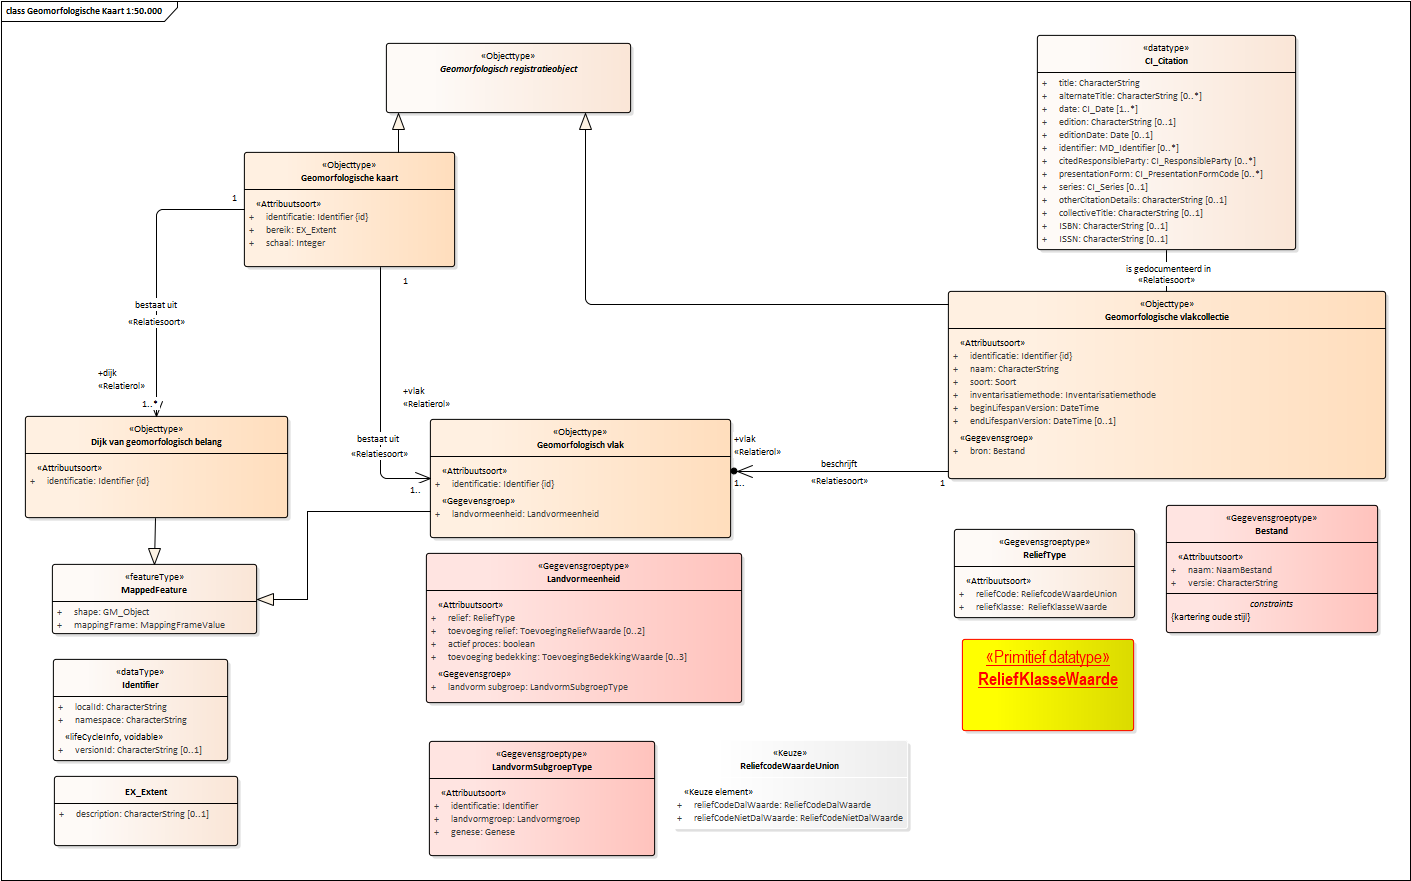
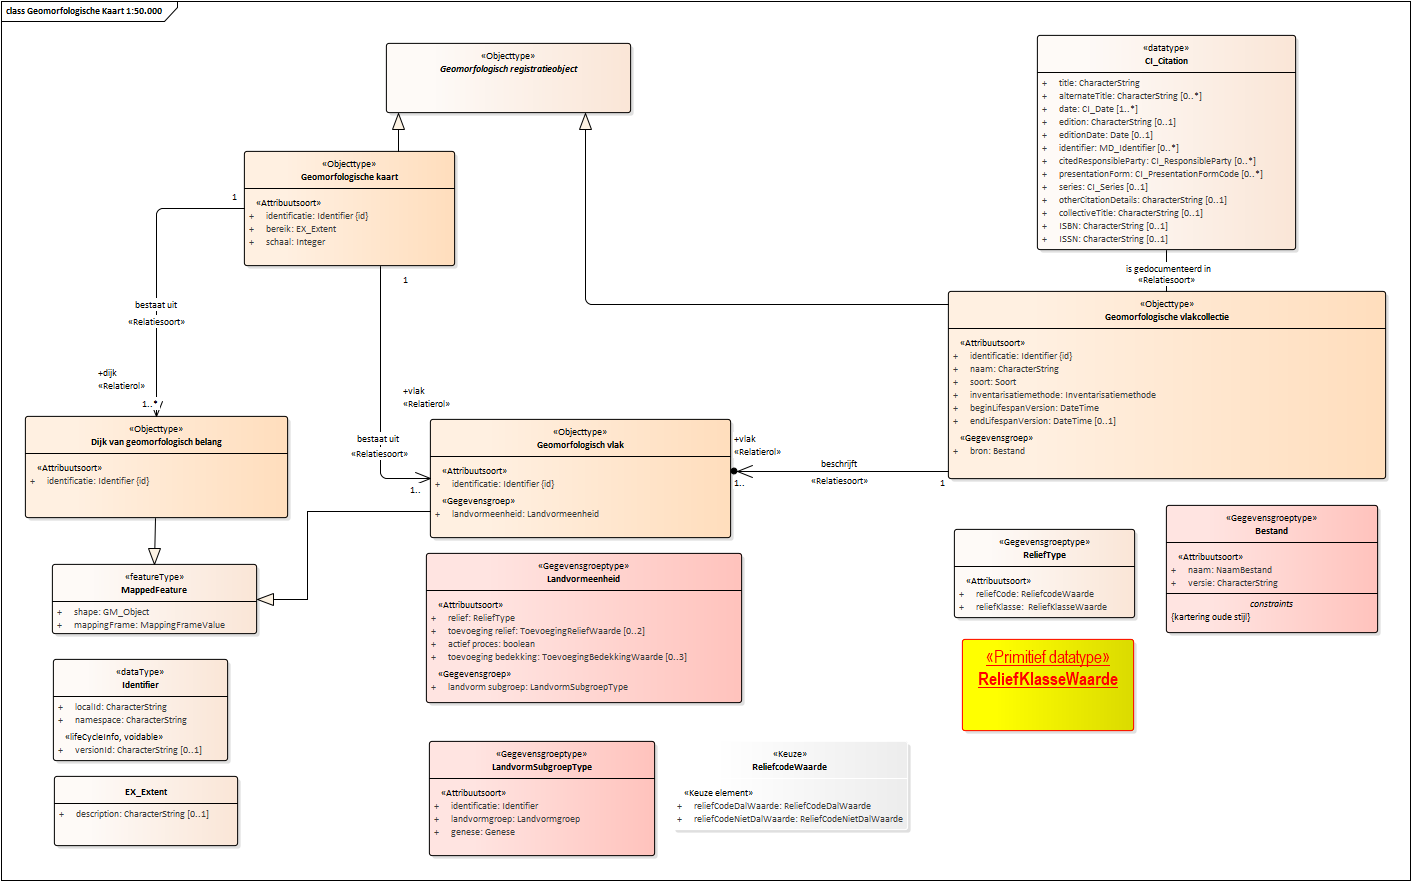
Conceptualmodel-GeomorfologischeKaartGMM-1.0-1-20180806-20180806-131932

Changed region(s): [[0.1559, 0.1532, 0.3118, 0.3065], [0.4678, 0.8581, 0.6549, 0.9501]]

diff --git a/data/GMM-cat.html b/data/GMM-cat.html
@@ -1,20 +1,20 @@
 <h2>Catalogus</h2>
 <p class="note" title="Over deze catalogus">
    Deze catalogus is automatisch samengesteld op basis van het UML model 
-   "Geomorfologische Kaart (GMM)" door 1.46.3 op August 6, 2018 at 09:58:04.
+   "Geomorfologische Kaart (GMM)" door 1.46.3 op August 6, 2018 at 11:19:31.
    <br>
    Wanneer je technische fouten of onvolkomenheden aantreft, geef dit dan door aan <i>arjan@linkedmatter.com</i> en geef de code 
-   <i>"Conceptualmodel-GeomorfologischeKaartGMM-1.0-1-20180806-20180806-115805"</i> door. 
+   <i>"Conceptualmodel-GeomorfologischeKaartGMM-1.0-1-20180806-20180806-131932"</i> door. 
    
 </p>
 <div class="imageinfo "><img src="data/Images/EAID_160626A1_CCDD_4032_B4D5_D30FF8FE4847.png" usemap="#imagemap-EAID_160626A1_CCDD_4032_B4D5_D30FF8FE4847"><map name="imagemap-EAID_160626A1_CCDD_4032_B4D5_D30FF8FE4847">
       <area shape="rect" coords="962,731,1134,639" alt="" href="#graph_EAID_E609F8B8_95AB_42bb_9DC1_791CDE4F3E44">
-      <area shape="rect" coords="672,829,908,740" alt="" href="#graph_EAID_BFEEA89D_0D4C_4c95_BC1D_762A18EB6F9B">
+      <area shape="rect" coords="672,830,908,741" alt="" href="#graph_EAID_BFEEA89D_0D4C_4c95_BC1D_762A18EB6F9B">
       <area shape="rect" coords="386,113,631,43" alt="" href="#graph_EAID_E3238A7E_FE1C_43a4_BF66_332ECDEF7681">
       <area shape="rect" coords="25,518,288,416" alt="" href="#graph_EAID_843FBABD_EBF0_4f1a_B37D_3D27CF51E1E4">
       <area shape="rect" coords="948,479,1386,291" alt="" href="#graph_EAID_1A180318_ED48_404f_BF37_B130C4BF1BD8">
       <area shape="rect" coords="430,538,731,419" alt="" href="#graph_EAID_79B1980D_BA7A_45db_8EF1_F9DCFF6B5389">
-      <area shape="rect" coords="244,267,455,152" alt="" href="#graph_EAID_6153A93B_5EF8_4e22_8EEC_7CF612ACE3D6"></map><p><b>Geomorfologische Kaart 1:50.000</b> — Ontwerp conceptueel model voor de Geomorfologische kaart, ten behoeve van de Basisregistratie
+      <area shape="rect" coords="244,266,455,151" alt="" href="#graph_EAID_6153A93B_5EF8_4e22_8EEC_7CF612ACE3D6"></map><p><b>Geomorfologische Kaart 1:50.000</b> — Ontwerp conceptueel model voor de Geomorfologische kaart, ten behoeve van de Basisregistratie
       Ondergrond (BRO).
    </p>
 </div>
@@ -24,7 +24,7 @@
       <area shape="rect" coords="26,541,262,426" alt="" href="#graph_EAID_2B60D3DD_9A53_48d9_9598_759BDEFE7BB2">
       <area shape="rect" coords="322,333,645,244" alt="" href="#graph_EAID_A30462D2_BDF4_4d87_AA1D_39859ADB2E90">
       <area shape="rect" coords="322,424,645,362" alt="" href="#graph_EAID_AC9144D6_B00D_4e0a_A506_61C3ECCB8DE3">
-      <area shape="rect" coords="26,202,249,113" alt="" href="#graph_EAID_BFADB646_F358_4f7e_A54C_E985A8724C21">
+      <area shape="rect" coords="26,202,243,113" alt="" href="#graph_EAID_BFADB646_F358_4f7e_A54C_E985A8724C21">
       <area shape="rect" coords="26,410,243,321" alt="" href="#graph_EAID_4BE35D48_AB17_4be7_A6A3_ABE09E5258D5">
       <area shape="rect" coords="26,304,243,215" alt="" href="#graph_EAID_3C0C8EB6_5C3D_4f87_B36C_DBB03EADAEEF">
       <area shape="rect" coords="26,82,645,35" alt="" href="#graph_EAID_A3898E34_ECC1_4419_8C60_C60D330F14EE"></map><p><b>Referentielijsten Geomorfologische Kaart (GMM)</b></p>
@@ -962,6 +962,10 @@
                <th>Naam</th>
                <td>ToevoegingBedekkingWaarde</td>
             </tr>
+            <tr>
+               <th>Herkomst</th>
+               <td>BRO</td>
+            </tr>
          </tbody>
       </table>
       
@@ -976,6 +980,10 @@
             <tr>
                <th>Naam</th>
                <td>ToevoegingReliefWaarde</td>
+            </tr>
+            <tr>
+               <th>Herkomst</th>
+               <td>BRO</td>
             </tr>
          </tbody>
       </table>
@@ -1036,6 +1044,10 @@
                <th>Naam</th>
                <td>Genese</td>
             </tr>
+            <tr>
+               <th>Herkomst</th>
+               <td>BRO</td>
+            </tr>
          </tbody>
       </table>
       
@@ -1051,6 +1063,10 @@
                <th>Naam</th>
                <td>Landvormgroep</td>
             </tr>
+            <tr>
+               <th>Herkomst</th>
+               <td>BRO</td>
+            </tr>
          </tbody>
       </table>
       
@@ -1059,8 +1075,8 @@
 </section>
 <section id="">
    <h3>Unions </h3>
-   <a class="anchor" name="graph_EAID_BFEEA89D_0D4C_4c95_BC1D_762A18EB6F9B"></a><a class="anchor" name="global_class_Model_ReliefcodeWaardeUnion"></a><section id="global_class_Model_ReliefcodeWaardeUnion">
-      <h4>Union ReliefcodeWaardeUnion</h4>
+   <a class="anchor" name="graph_EAID_BFEEA89D_0D4C_4c95_BC1D_762A18EB6F9B"></a><a class="anchor" name="global_class_Model_ReliefcodeWaarde"></a><section id="global_class_Model_ReliefcodeWaarde">
+      <h4>Union ReliefcodeWaarde</h4>
       
       <table>
          <colgroup width="30%"></colgroup>
@@ -1068,7 +1084,7 @@
          <tbody>
             <tr>
                <th>Naam</th>
-               <td>ReliefcodeWaardeUnion</td>
+               <td>ReliefcodeWaarde</td>
             </tr>
             <tr>
                <th>Herkomst</th>
@@ -1100,7 +1116,7 @@
                </tr>
                <tr>
                   <td>
-                     <a class="link" href="#detail_attribute_Model_ReliefcodeWaardeUnion_reliefCodeDalWaarde">reliefCodeDalWaarde</a>
+                     <a class="link" href="#detail_attribute_Model_ReliefcodeWaarde_reliefCodeDalWaarde">reliefCodeDalWaarde</a>
                      
                   </td>
                   <td></td>
@@ -1112,7 +1128,7 @@
                </tr>
                <tr>
                   <td>
-                     <a class="link" href="#detail_attribute_Model_ReliefcodeWaardeUnion_reliefCodeNietDalWaarde">reliefCodeNietDalWaarde</a>
+                     <a class="link" href="#detail_attribute_Model_ReliefcodeWaarde_reliefCodeNietDalWaarde">reliefCodeNietDalWaarde</a>
                      
                   </td>
                   <td></td>
@@ -1405,7 +1421,7 @@
                      </tr>
                      <tr>
                         <th>Formaat</th>
-                        <td>ReliefcodeWaardeUnion</td>
+                        <td>ReliefcodeWaarde</td>
                      </tr>
                   </tbody>
                </table>
@@ -1464,10 +1480,18 @@
                      <td>toevoeging relief</td>
                   </tr>
                   <tr>
+                     <th>Herkomst</th>
+                     <td>BRO</td>
+                  </tr>
+                  <tr>
                      <th>Definitie</th>
                      <td>Nadere typering van het reli?f en/of typering van de (relatieve) hoogteligging van
                         de landvormeenheid.
                      </td>
+                  </tr>
+                  <tr>
+                     <th>Herkomst definitie</th>
+                     <td>BRO</td>
                   </tr>
                   <tr>
                      <th>Toelichting</th>
@@ -1509,10 +1533,18 @@
                      <td>actief proces</td>
                   </tr>
                   <tr>
+                     <th>Herkomst</th>
+                     <td>BRO</td>
+                  </tr>
+                  <tr>
                      <th>Definitie</th>
                      <td>Onderverdeling van landvormeenheden naar het wel of niet onderhevig zijn aan een actief
                         vormingsproces.
                      </td>
+                  </tr>
+                  <tr>
+                     <th>Herkomst definitie</th>
+                     <td>BRO</td>
                   </tr>
                   <tr>
                      <th>Toelichting</th>
@@ -1570,8 +1602,16 @@
                         <td>identificatie</td>
                      </tr>
                      <tr>
+                        <th>Herkomst</th>
+                        <td>BRO</td>
+                     </tr>
+                     <tr>
                         <th>Definitie</th>
                         <td>De unieke aanduiding van een landvormsubgroep.</td>
+                     </tr>
+                     <tr>
+                        <th>Herkomst definitie</th>
+                        <td>BRO</td>
                      </tr>
                      <tr>
                         <th>Toelichting</th>
@@ -1613,10 +1653,18 @@
                         <td>landvormgroep</td>
                      </tr>
                      <tr>
+                        <th>Herkomst</th>
+                        <td>BRO</td>
+                     </tr>
+                     <tr>
                         <th>Definitie</th>
                         <td>Een groep van landvormen die in hun uiterlijke gedaante bepaalde geomorfologische
                            kenmerken gemeenschappelijk hebben.
                         </td>
+                     </tr>
+                     <tr>
+                        <th>Herkomst definitie</th>
+                        <td>BRO</td>
                      </tr>
                      <tr>
                         <th>Toelichting</th>
@@ -1658,8 +1706,16 @@
                         <td>genese</td>
                      </tr>
                      <tr>
+                        <th>Herkomst</th>
+                        <td>BRO</td>
+                     </tr>
+                     <tr>
                         <th>Definitie</th>
                         <td>De ontstaanswijze van landvormen.</td>
+                     </tr>
+                     <tr>
+                        <th>Herkomst definitie</th>
+                        <td>BRO</td>
                      </tr>
                      <tr>
                         <th>Toelichting</th>
@@ -1703,8 +1759,16 @@
                      <td>toevoeging bedekking</td>
                   </tr>
                   <tr>
+                     <th>Herkomst</th>
+                     <td>BRO</td>
+                  </tr>
+                  <tr>
                      <th>Definitie</th>
                      <td>Typering van de landvormsubgroep bedekkende laag.</td>
+                  </tr>
+                  <tr>
+                     <th>Herkomst definitie</th>
+                     <td>BRO</td>
                   </tr>
                   <tr>
                      <th>Toelichting</th>
@@ -1944,8 +2008,16 @@
                      <td>naam</td>
                   </tr>
                   <tr>
+                     <th>Herkomst</th>
+                     <td>BRO</td>
+                  </tr>
+                  <tr>
                      <th>Definitie</th>
                      <td>De naam of beschrijving van het bestand met hoogte informatie.</td>
+                  </tr>
+                  <tr>
+                     <th>Herkomst definitie</th>
+                     <td>BRO</td>
                   </tr>
                   <tr>
                      <th>Mogelijk geen waarde</th>
@@ -2086,10 +2158,18 @@
                   <td>beginLifespanVersion</td>
                </tr>
                <tr>
+                  <th>Herkomst</th>
+                  <td>BRO</td>
+               </tr>
+               <tr>
                   <th>Definitie</th>
                   <td>Date and time at which this version of the spatial object was inserted or changed
                      in the spatial data set.
                   </td>
+               </tr>
+               <tr>
+                  <th>Herkomst definitie</th>
+                  <td>BRO</td>
                </tr>
                <tr>
                   <th>Mogelijk geen waarde</th>
@@ -2128,10 +2208,18 @@
                   <td>endLifespanVersion</td>
                </tr>
                <tr>
+                  <th>Herkomst</th>
+                  <td>BRO</td>
+               </tr>
+               <tr>
                   <th>Definitie</th>
                   <td>Date and time at which this version of the spatial object was superseded or retired
                      in the spatial data set.
                   </td>
+               </tr>
+               <tr>
+                  <th>Herkomst definitie</th>
+                  <td>BRO</td>
                </tr>
                <tr>
                   <th>Mogelijk geen waarde</th>
@@ -2144,6 +2232,10 @@
                <tr>
                   <th>Indicatie kardinaliteit</th>
                   <td>0 .. 1</td>
+               </tr>
+               <tr>
+                  <th>Indicatie authentiek</th>
+                  <td>Ja</td>
                </tr>
                <tr>
                   <th>Formaat</th>
@@ -2825,6 +2917,10 @@
                   <td>Code</td>
                </tr>
                <tr>
+                  <th>Herkomst</th>
+                  <td>BRO</td>
+               </tr>
+               <tr>
                   <th>Indicatie kardinaliteit</th>
                   <td>1</td>
                </tr>
@@ -2849,6 +2945,10 @@
                   <td>Omschrijving toevoeging reli?f</td>
                </tr>
                <tr>
+                  <th>Herkomst</th>
+                  <td>BRO</td>
+               </tr>
+               <tr>
                   <th>Indicatie kardinaliteit</th>
                   <td>1</td>
                </tr>
@@ -2866,10 +2966,10 @@
    
    
    
-   <a class="anchor" name="detail_class_Model_ReliefcodeWaardeUnion"></a><section id="detail_class_Model_ReliefcodeWaardeUnion">
-      <h5>Keuze ReliefcodeWaardeUnion</h5>
-      <a class="anchor" name="detail_attribute_Model_ReliefcodeWaardeUnion_reliefCodeDalWaarde"></a><section id="detail_attribute_Model_ReliefcodeWaardeUnion_reliefCodeDalWaarde">
-         <h6>Union element details <a href="#global_class_Model_ReliefcodeWaardeUnion">ReliefcodeWaardeUnion</a> reliefCodeDalWaarde
+   <a class="anchor" name="detail_class_Model_ReliefcodeWaarde"></a><section id="detail_class_Model_ReliefcodeWaarde">
+      <h5>Keuze ReliefcodeWaarde</h5>
+      <a class="anchor" name="detail_attribute_Model_ReliefcodeWaarde_reliefCodeDalWaarde"></a><section id="detail_attribute_Model_ReliefcodeWaarde_reliefCodeDalWaarde">
+         <h6>Union element details <a href="#global_class_Model_ReliefcodeWaarde">ReliefcodeWaarde</a> reliefCodeDalWaarde
          </h6>
          
          <table>
@@ -2892,8 +2992,8 @@
          </table>
          
       </section>
-      <a class="anchor" name="detail_attribute_Model_ReliefcodeWaardeUnion_reliefCodeNietDalWaarde"></a><section id="detail_attribute_Model_ReliefcodeWaardeUnion_reliefCodeNietDalWaarde">
-         <h6>Union element details <a href="#global_class_Model_ReliefcodeWaardeUnion">ReliefcodeWaardeUnion</a> reliefCodeNietDalWaarde
+      <a class="anchor" name="detail_attribute_Model_ReliefcodeWaarde_reliefCodeNietDalWaarde"></a><section id="detail_attribute_Model_ReliefcodeWaarde_reliefCodeNietDalWaarde">
+         <h6>Union element details <a href="#global_class_Model_ReliefcodeWaarde">ReliefcodeWaarde</a> reliefCodeNietDalWaarde
          </h6>
          
          <table>
